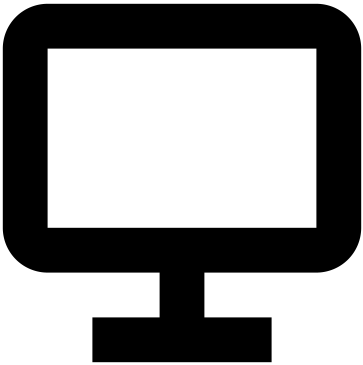
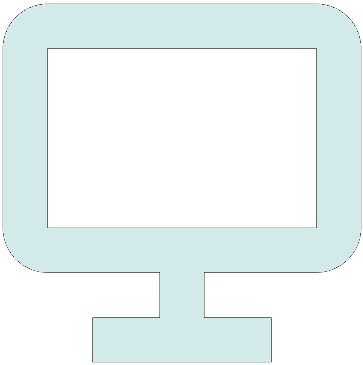
Swap player images

diff --git a/styles.css b/styles.css
@@ -15,3 +15,19 @@ body {
   margin-bottom: 80px;
   background-color: #EEF5DB;
 }
+
+/* Choose-player card */
+
+.choose-player {
+    background-color: #4F6367;
+}
+
+h1 {
+    color: #d3eaea;
+}
+
+button {
+    background: none;
+    border: none;
+    outline: none;
+}
